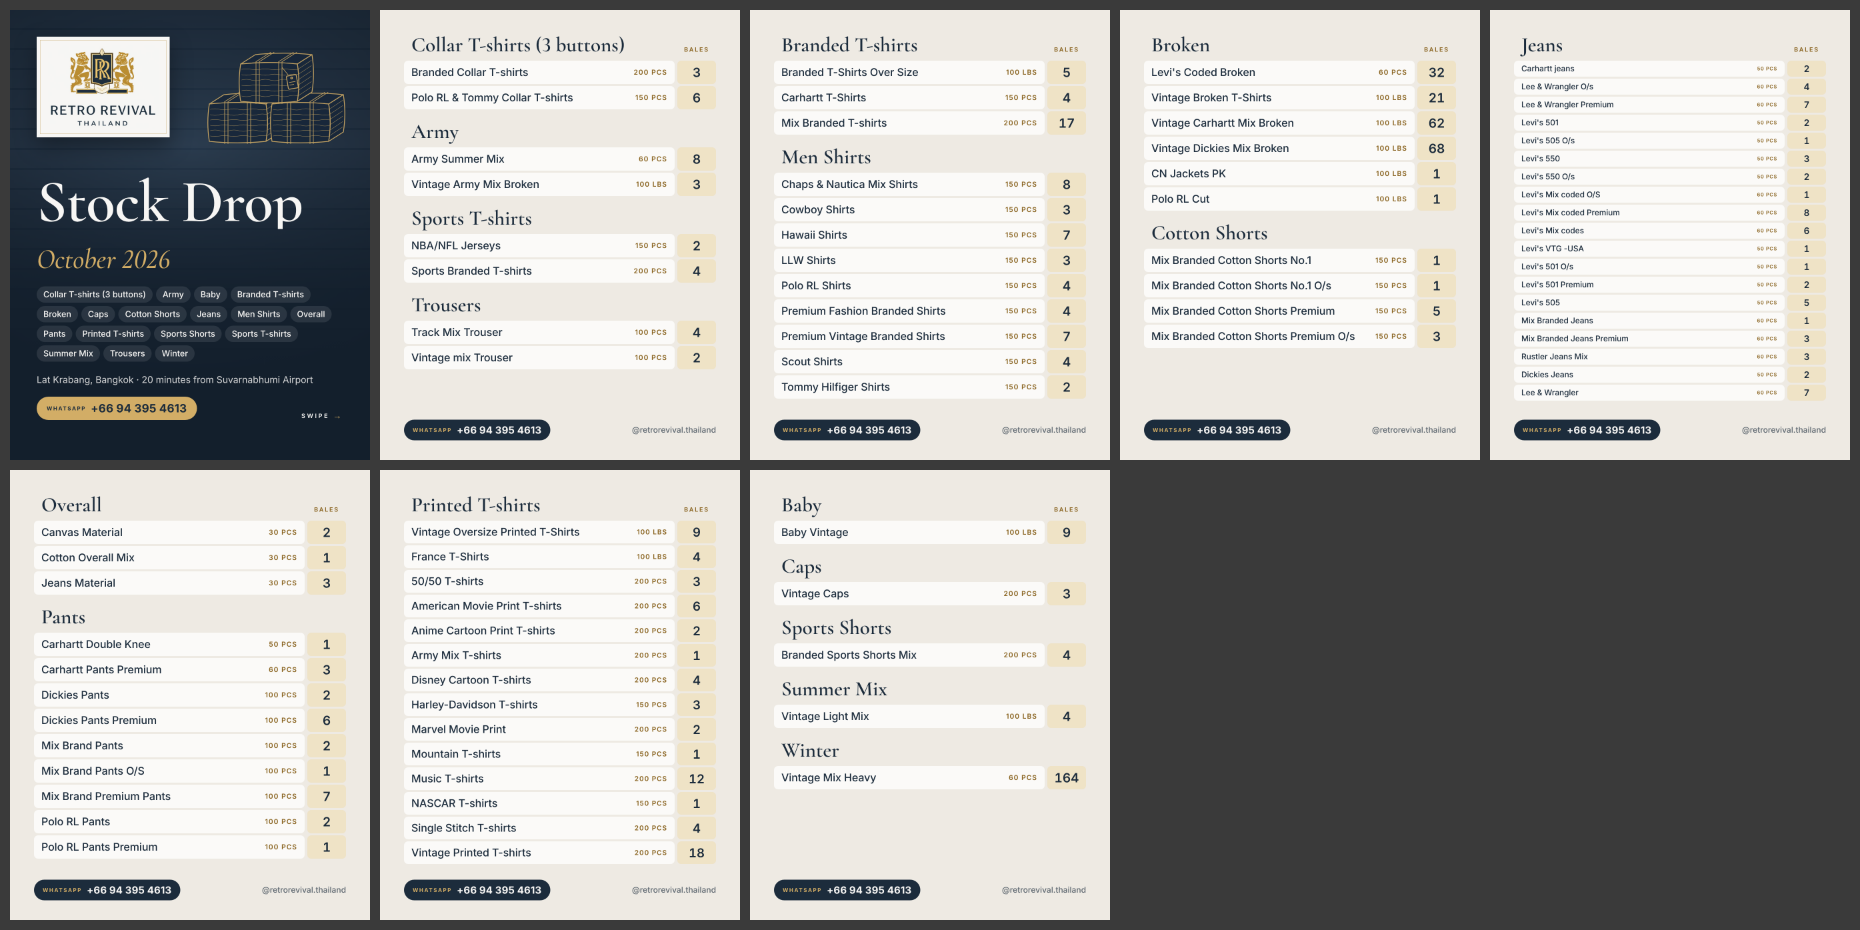
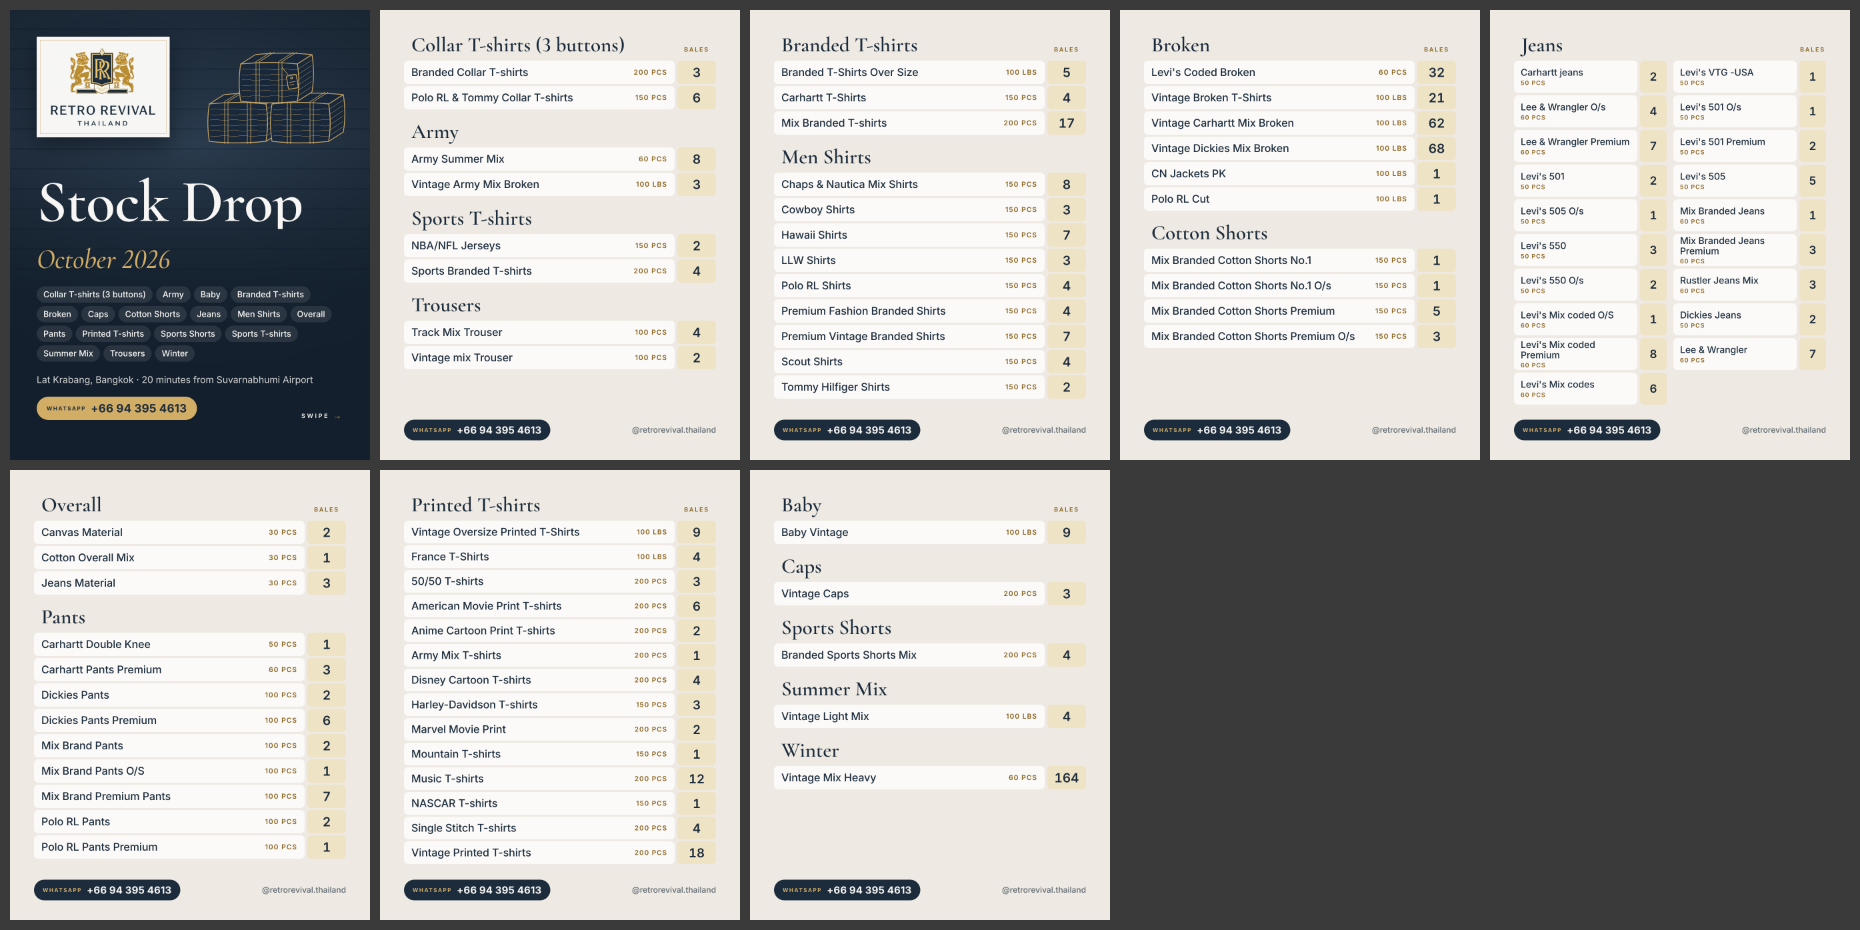
Two columns for sections too long for one column
A long section stays one column if its rows stay near full size
(66px+), else it switches to two columns on its own slide: name above
packing, long names wrap to two lines. Jeans now reads at 28px instead
of a dense 24px column. The overflow check covers wrapped names.

Claude-Session: https://claude.ai/code/session_01FjARQ1TdBw1wsppj9LT4t6

Changed region(s): [[0.8108, 0.0624, 0.9978, 0.4366]]

diff --git a/projects/stock-drop/output/2026-10/carousel.html b/projects/stock-drop/output/2026-10/carousel.html
@@ -89,28 +89,28 @@
     <div class="body" style="--row:76px">
       <div class="block">
         <div class="section-head"><h2>Collar T-shirts (3 buttons)</h2><span class="qt">Bales</span></div>
-        <ul class="rows">
+        <ul class="rows" style="--n:1">
           <li><span class="item"><span class="cat">Branded Collar T-shirts</span><span class="pk">200 Pcs</span></span><span class="qty">3</span></li>
           <li><span class="item"><span class="cat">Polo RL &amp; Tommy Collar T-shirts</span><span class="pk">150 Pcs</span></span><span class="qty">6</span></li>
         </ul>
       </div>
       <div class="block">
         <div class="section-head"><h2>Army</h2></div>
-        <ul class="rows">
+        <ul class="rows" style="--n:1">
           <li><span class="item"><span class="cat">Army Summer Mix</span><span class="pk">60 Pcs</span></span><span class="qty">8</span></li>
           <li><span class="item"><span class="cat">Vintage Army Mix Broken</span><span class="pk">100 Lbs</span></span><span class="qty">3</span></li>
         </ul>
       </div>
       <div class="block">
         <div class="section-head"><h2>Sports T-shirts</h2></div>
-        <ul class="rows">
+        <ul class="rows" style="--n:1">
           <li><span class="item"><span class="cat">NBA/NFL Jerseys</span><span class="pk">150 Pcs</span></span><span class="qty">2</span></li>
           <li><span class="item"><span class="cat">Sports Branded T-shirts</span><span class="pk">200 Pcs</span></span><span class="qty">4</span></li>
         </ul>
       </div>
       <div class="block">
         <div class="section-head"><h2>Trousers</h2></div>
-        <ul class="rows">
+        <ul class="rows" style="--n:1">
           <li><span class="item"><span class="cat">Track Mix Trouser</span><span class="pk">100 pcs</span></span><span class="qty">4</span></li>
           <li><span class="item"><span class="cat">Vintage mix Trouser</span><span class="pk">100 Pcs</span></span><span class="qty">2</span></li>
         </ul>
@@ -126,7 +126,7 @@
     <div class="body" style="--row:76px">
       <div class="block">
         <div class="section-head"><h2>Branded T-shirts</h2><span class="qt">Bales</span></div>
-        <ul class="rows">
+        <ul class="rows" style="--n:2">
           <li><span class="item"><span class="cat">Branded T-Shirts Over Size</span><span class="pk">100 Lbs</span></span><span class="qty">5</span></li>
           <li><span class="item"><span class="cat">Carhartt T-Shirts</span><span class="pk">150 Pcs</span></span><span class="qty">4</span></li>
           <li><span class="item"><span class="cat">Mix Branded T-shirts</span><span class="pk">200 Pcs</span></span><span class="qty">17</span></li>
@@ -134,7 +134,7 @@
       </div>
       <div class="block">
         <div class="section-head"><h2>Men Shirts</h2></div>
-        <ul class="rows">
+        <ul class="rows" style="--n:5">
           <li><span class="item"><span class="cat">Chaps &amp; Nautica Mix Shirts</span><span class="pk">150 Pcs</span></span><span class="qty">8</span></li>
           <li><span class="item"><span class="cat">Cowboy Shirts</span><span class="pk">150 Pcs</span></span><span class="qty">3</span></li>
           <li><span class="item"><span class="cat">Hawaii Shirts</span><span class="pk">150 Pcs</span></span><span class="qty">7</span></li>
@@ -157,7 +157,7 @@
     <div class="body" style="--row:76px">
       <div class="block">
         <div class="section-head"><h2>Broken</h2><span class="qt">Bales</span></div>
-        <ul class="rows">
+        <ul class="rows" style="--n:3">
           <li><span class="item"><span class="cat">Levi's Coded Broken</span><span class="pk">60 Pcs</span></span><span class="qty">32</span></li>
           <li><span class="item"><span class="cat">Vintage Broken T-Shirts</span><span class="pk">100 Lbs</span></span><span class="qty">21</span></li>
           <li><span class="item"><span class="cat">Vintage Carhartt Mix Broken</span><span class="pk">100 Lbs</span></span><span class="qty">62</span></li>
@@ -168,7 +168,7 @@
       </div>
       <div class="block">
         <div class="section-head"><h2>Cotton Shorts</h2></div>
-        <ul class="rows">
+        <ul class="rows" style="--n:2">
           <li><span class="item"><span class="cat">Mix Branded Cotton Shorts No.1</span><span class="pk">150 Pcs</span></span><span class="qty">1</span></li>
           <li><span class="item"><span class="cat">Mix Branded Cotton Shorts No.1 O/s</span><span class="pk">150 Pcs</span></span><span class="qty">1</span></li>
           <li><span class="item"><span class="cat">Mix Branded Cotton Shorts Premium</span><span class="pk">150 Pcs</span></span><span class="qty">5</span></li>
@@ -183,10 +183,10 @@
   </section>
 
   <section class="slide">
-    <div class="body" style="--row:54px">
+    <div class="body" style="--row:104px">
       <div class="block">
-        <div class="section-head"><h2>Jeans</h2><span class="qt">Bales</span></div>
-        <ul class="rows">
+        <div class="section-head two"><h2>Jeans</h2><span class="qt">Bales</span></div>
+        <ul class="rows two" style="--n:10">
           <li><span class="item"><span class="cat">Carhartt jeans</span><span class="pk">50 Pcs</span></span><span class="qty">2</span></li>
           <li><span class="item"><span class="cat">Lee &amp; Wrangler O/s</span><span class="pk">60 Pcs</span></span><span class="qty">4</span></li>
           <li><span class="item"><span class="cat">Lee &amp; Wrangler Premium</span><span class="pk">60 Pcs</span></span><span class="qty">7</span></li>
@@ -219,7 +219,7 @@
     <div class="body" style="--row:76px">
       <div class="block">
         <div class="section-head"><h2>Overall</h2><span class="qt">Bales</span></div>
-        <ul class="rows">
+        <ul class="rows" style="--n:2">
           <li><span class="item"><span class="cat">Canvas Material</span><span class="pk">30 Pcs</span></span><span class="qty">2</span></li>
           <li><span class="item"><span class="cat">Cotton Overall Mix</span><span class="pk">30 Pcs</span></span><span class="qty">1</span></li>
           <li><span class="item"><span class="cat">Jeans Material</span><span class="pk">30 Pcs</span></span><span class="qty">3</span></li>
@@ -227,7 +227,7 @@
       </div>
       <div class="block">
         <div class="section-head"><h2>Pants</h2></div>
-        <ul class="rows">
+        <ul class="rows" style="--n:5">
           <li><span class="item"><span class="cat">Carhartt Double Knee</span><span class="pk">50 Pcs</span></span><span class="qty">1</span></li>
           <li><span class="item"><span class="cat">Carhartt Pants Premium</span><span class="pk">60 Pcs</span></span><span class="qty">3</span></li>
           <li><span class="item"><span class="cat">Dickies Pants</span><span class="pk">100 Pcs</span></span><span class="qty">2</span></li>
@@ -250,7 +250,7 @@
     <div class="body" style="--row:74px">
       <div class="block">
         <div class="section-head"><h2>Printed T-shirts</h2><span class="qt">Bales</span></div>
-        <ul class="rows">
+        <ul class="rows" style="--n:7">
           <li><span class="item"><span class="cat">Vintage Oversize Printed T-Shirts</span><span class="pk">100 Lbs</span></span><span class="qty">9</span></li>
           <li><span class="item"><span class="cat">France T-Shirts</span><span class="pk">100 Lbs</span></span><span class="qty">4</span></li>
           <li><span class="item"><span class="cat">50/50 T-shirts</span><span class="pk">200 Pcs</span></span><span class="qty">3</span></li>
@@ -278,31 +278,31 @@
     <div class="body" style="--row:76px">
       <div class="block">
         <div class="section-head"><h2>Baby</h2><span class="qt">Bales</span></div>
-        <ul class="rows">
+        <ul class="rows" style="--n:1">
           <li><span class="item"><span class="cat">Baby Vintage</span><span class="pk">100 Lbs</span></span><span class="qty">9</span></li>
         </ul>
       </div>
       <div class="block">
         <div class="section-head"><h2>Caps</h2></div>
-        <ul class="rows">
+        <ul class="rows" style="--n:1">
           <li><span class="item"><span class="cat">Vintage Caps</span><span class="pk">200 PCs</span></span><span class="qty">3</span></li>
         </ul>
       </div>
       <div class="block">
         <div class="section-head"><h2>Sports Shorts</h2></div>
-        <ul class="rows">
+        <ul class="rows" style="--n:1">
           <li><span class="item"><span class="cat">Branded Sports Shorts Mix</span><span class="pk">200 Pcs</span></span><span class="qty">4</span></li>
         </ul>
       </div>
       <div class="block">
         <div class="section-head"><h2>Summer Mix</h2></div>
-        <ul class="rows">
+        <ul class="rows" style="--n:1">
           <li><span class="item"><span class="cat">Vintage Light Mix</span><span class="pk">100 Lbs</span></span><span class="qty">4</span></li>
         </ul>
       </div>
       <div class="block">
         <div class="section-head"><h2>Winter</h2></div>
-        <ul class="rows">
+        <ul class="rows" style="--n:1">
           <li><span class="item"><span class="cat">Vintage Mix Heavy</span><span class="pk">60 Pcs</span></span><span class="qty">164</span></li>
         </ul>
       </div>

diff --git a/projects/stock-drop/template/styles.css b/projects/stock-drop/template/styles.css
@@ -158,3 +158,19 @@ body { background: #555; font-family: var(--sans); color: var(--navy); }
   background: var(--qty-box); border-radius: 12px;
   font: 600 calc(var(--row) * 0.5)/1 var(--sans); font-variant-numeric: tabular-nums;
 }
+
+/* Two columns for a section too long for one (e.g. Jeans). Reads down the left column, then
+   the right. Rows are taller, so the name sits above its packing. */
+.rows.two {
+  display: grid; grid-template-columns: 1fr 1fr; grid-auto-flow: column;
+  grid-template-rows: repeat(var(--n), var(--row)); column-gap: 20px;
+}
+.rows.two li { height: calc(var(--row) - 8px); margin: 0; min-width: 0; }
+.rows.two .item { flex-direction: column; align-items: stretch; justify-content: center; gap: 6px; padding: 0 20px; }
+.rows.two .cat {
+  flex: none; font-size: 28px; line-height: 1.12; white-space: normal;
+  display: -webkit-box; -webkit-line-clamp: 2; -webkit-box-orient: vertical; /* up to 2 lines */
+}
+.rows.two .pk { font-size: 18px; }
+.rows.two .qty, .section-head.two .qt { width: 80px; }
+.rows.two .qty { font-size: 34px; }

diff --git a/projects/stock-drop/README.md b/projects/stock-drop/README.md
@@ -84,7 +84,7 @@ Less is more: **9 slides at most** (cover plus up to 8 list slides), built mobil
 - **Packing:** sections are rearranged to fit, largest first, so the slides don't follow sheet order. Within a slide, sections keep sheet order.
 - **Emptiest slide last:** the slide with the most free space always goes at the end, so the carousel never looks finished early.
 - **Auto-fit:** the build tries row heights from 80px down to 60px and uses the biggest where every section fits whole within 9 slides and no slide is less than half full. Bale names are capped at 32px so long names never cut off.
-- **Long sections:** a section too long for one slide at that size (October: Jeans, 19 lines) gets a slide to itself with tighter rows (down to 50px), so it never splits. If a section can't fit even then, the build stops and names it. Raise `MAX_SLIDES` in `src/build.mjs` only if you accept more slides.
+- **Long sections:** a section too long for one slide at that size gets a slide to itself, so it never splits. If one column still gives near-full-size rows (66px or more), it stays one column (October: Printed T-shirts). Otherwise it switches to two columns, with the name above its packing and long names wrapping to two lines (October: Jeans, 19 lines). If a section can't fit even then, the build stops and names it. Raise `MAX_SLIDES` in `src/build.mjs` only if you accept more slides.
 
 Contact details come from `src/brand.mjs`. Keep that file in sync with the [business profile](../../docs/research/business-profile.md).
 

diff --git a/docs/client/decisions.md b/docs/client/decisions.md
@@ -4,6 +4,7 @@ Answers and decisions confirmed by the client or Hammad. Add new entries at the 
 
 | Date | Decision | Source | Docs updated |
 | :- | :- | :- | :- |
+| 2026-10-10 | A section too long for one column (Jeans) uses two columns on its own slide, with bigger type, instead of a denser single column | Hammad | projects/stock-drop |
 | 2026-10-10 | Mobile-first: up to 9 slides with bigger type. Rows are sized per slide, so a long section (Jeans) stays whole on one denser slide. LINE removed from the carousel; WhatsApp is the only contact, highlighted in a pill | Hammad | projects/stock-drop |
 | 2026-10-10 | Cover lists every section as a pill; "Monthly wholesale release" and "Fresh containers every month" removed. List rows put the bale count in its own box, with one "BALES" label per slide | Hammad | projects/stock-drop |
 | 2026-10-10 | Cover B chosen: logo top left (enlarged), gold line drawing of bales top right, "Stock Drop" on one line. A/B record in `projects/stock-drop/reviews/2026-10-cover-ab/` | Hammad | projects/stock-drop |

diff --git a/to-dos/stock-drop.md b/to-dos/stock-drop.md
@@ -15,5 +15,4 @@ From the [October critique](../projects/stock-drop/reviews/2026-10-critique.html
 - [ ] **[Claude]** Cover: align the drawing's top with the logo plate
 - [ ] **[Client]** Tidy capitalisation in the sheet? ("Carhartt jeans", "Vintage mix Trouser", "Levi's Mix coded/codes")
 - [ ] **[Hammad]** Review the caption: [captions/2026-10.md](../projects/stock-drop/captions/2026-10.md)
-- [ ] **[Hammad]** Jeans slide: keep it whole at a denser size (names 24px), or split it across two slides at full size
 - [ ] **[Hammad]** Upload the original `ETA141026.xlsx` to `projects/stock-drop/data/` on GitHub. The file on record is a CSV rebuilt from the sheet's text
